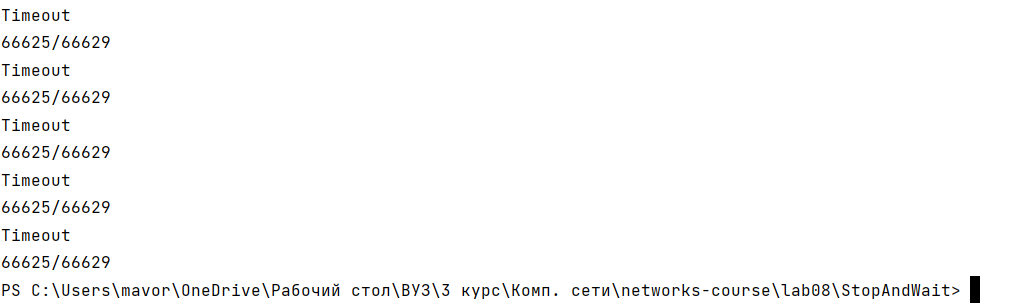
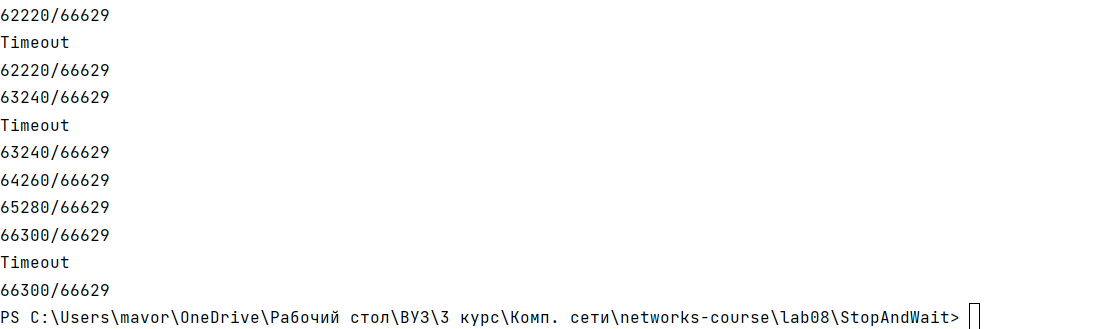
Update README.md

Changed region(s): [[0.0, 0.0293, 0.9735, 0.9967]]

diff --git a/lab08/lab08.md b/lab08/lab08.md
@@ -34,7 +34,18 @@
 Приложите скриншоты, подтверждающие работоспособность программы.
 
 #### Демонстрация работы
-todo
+
+Логи на клиенте:
+
+![alt text](images/StopAndWait_client_1.png)
+
+Логи на сервере:
+
+![alt text](images/StopAndWait_server_1.png)
+
+Передавался файл example.png и сохранялся в received.png
+
+Контрольные суммы были также реализованы.
 
 ### Б. Дуплексная передача (2 балла)
 Поддержите возможность пересылки данных в обоих направлениях: как от клиента к серверу, так и
@@ -43,7 +54,12 @@ todo
 Продемонстрируйте передачу файла от сервера клиенту.
 
 #### Демонстрация работы
-todo
+
+Логи с сервера
+
+![alt text](images/StopAndWait_server_1.png)
+
+Передавался файл example.txt и сохранялся в received.txt
 
 ### В. Контрольные суммы (1 балл)
 UDP реализует механизм контрольных сумм при передаче данных. Однако предположим, что
